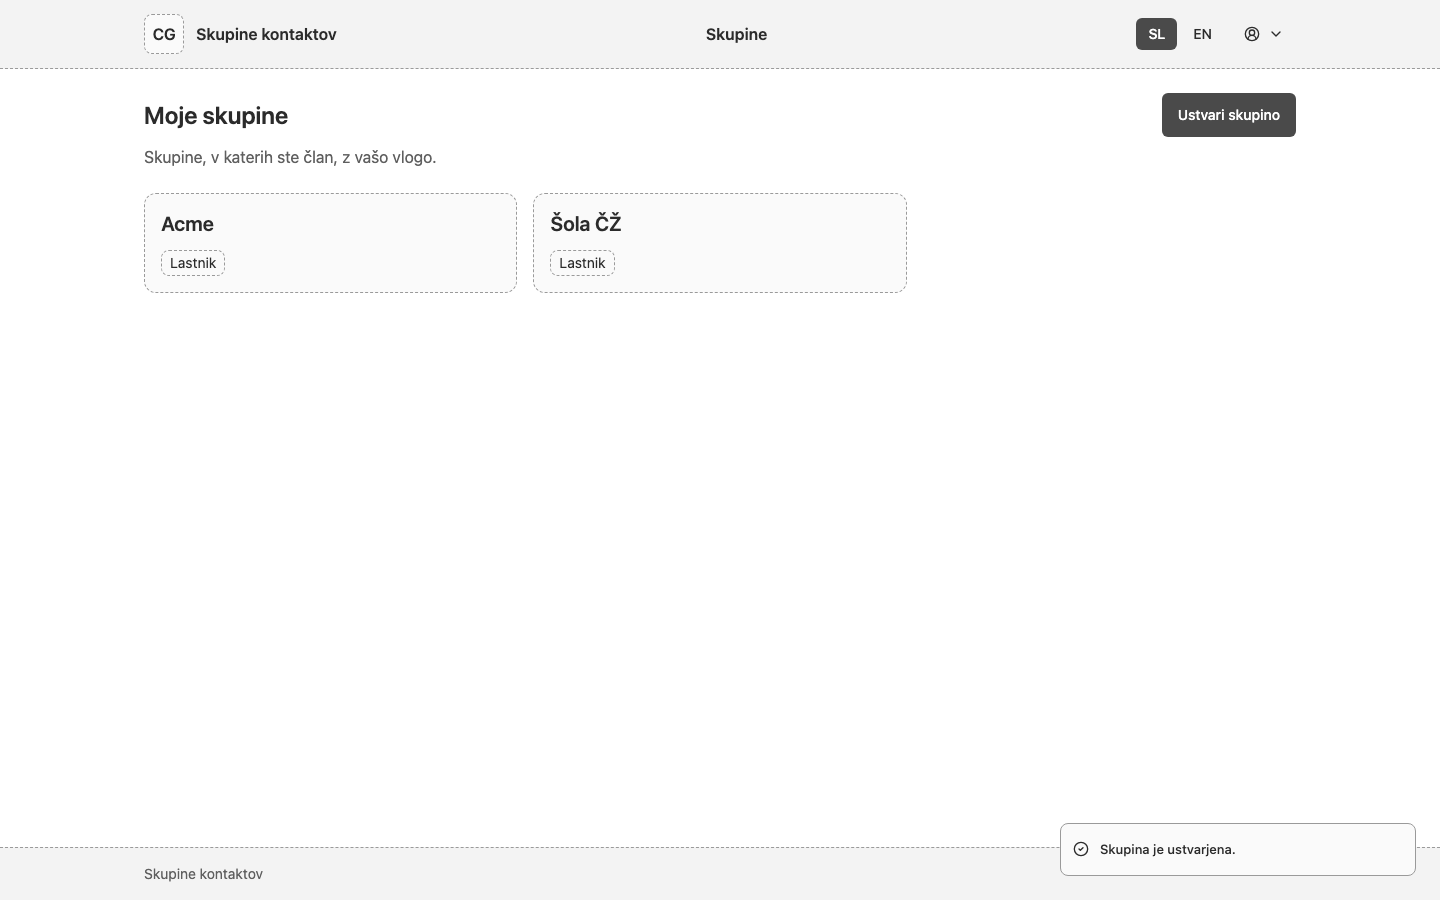
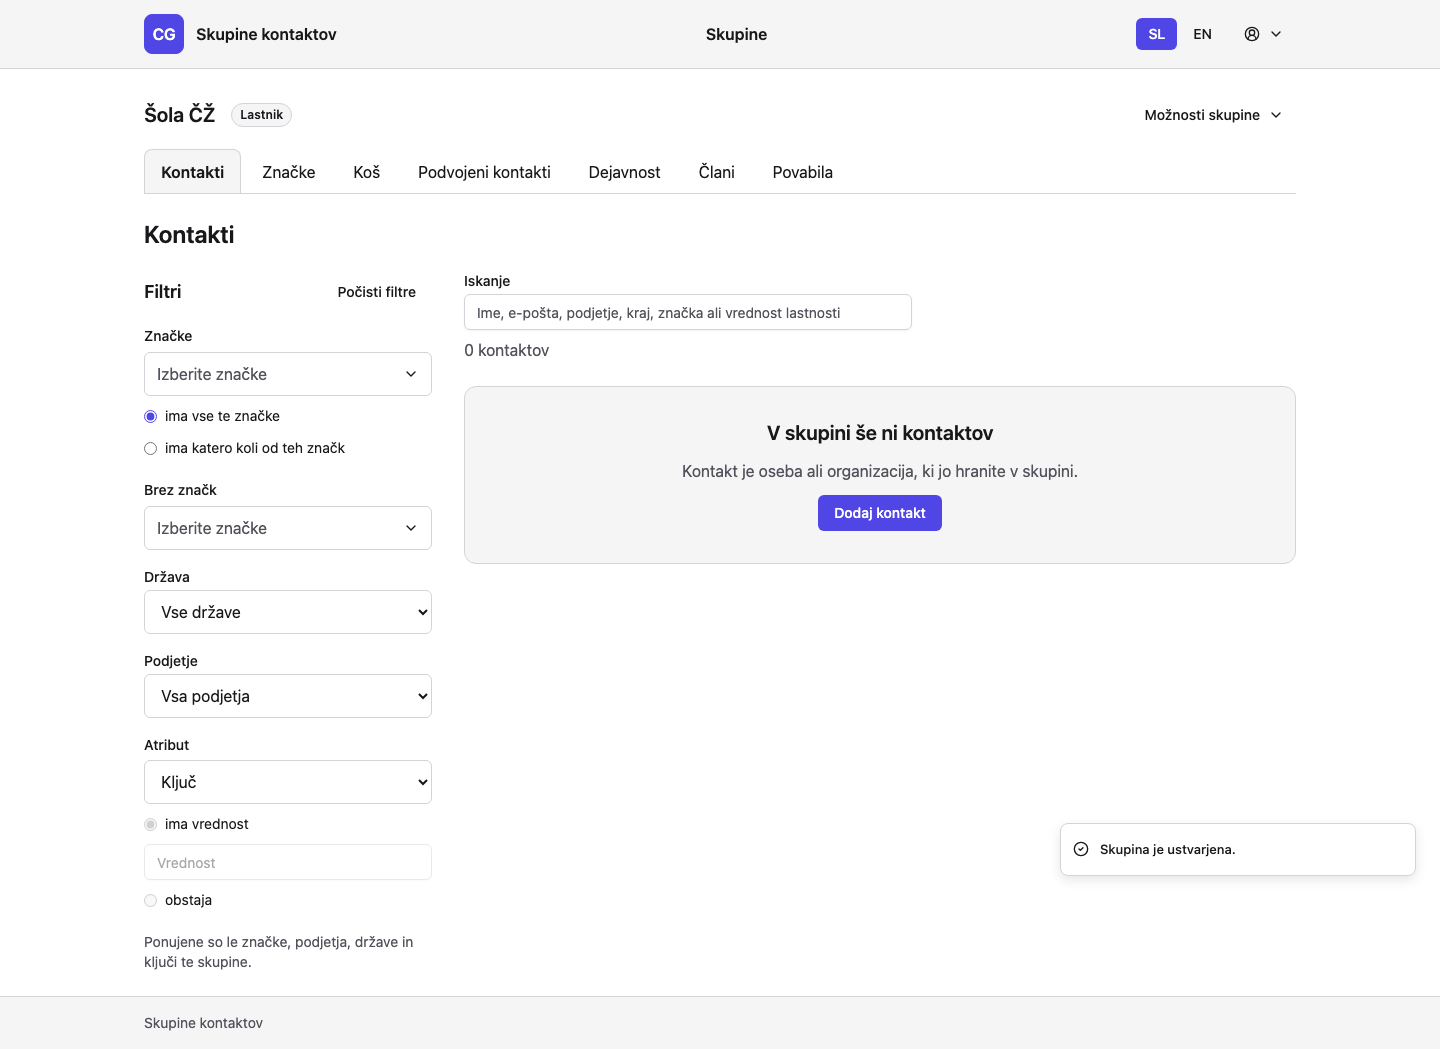
test: WF-05 check expects the opened new Group (F-57)
Defect in a non-frozen UI check: after "Ustvari" the app opens the new
Group as its Contact list (F-40), the check still waited for a level 2
heading in the Group list. It now expects the Contact list heading and
the Group name in the shell, and axe runs on that state.

Red: WF-05 create dialog: open, errors, created failed: heading level 2 "Šola ČŽ" not found (run 3, three widths)
Green: chromium 3 of 3 against the test stack, logs/fix3-f57-green.log

diff --git a/02_output/frontend/ui-checks/group-screens.stack.spec.ts b/02_output/frontend/ui-checks/group-screens.stack.spec.ts
@@ -5,7 +5,7 @@ import { VIEWPORTS } from './viewports';
 
 /**
  * build-ui checks of the US-002 states of WF-05 (UI-13, UI-15, UI-19, UI-22): the create dialog, its field errors
- * (R-002-02, R-002-03) and the confirmation after creating, at the three widths. Needs the test stack, like
+ * (R-002-02, R-002-03) and the confirmation and the opened new Group after creating, at the three widths. Needs the test stack, like
  * `account-screens.stack.spec.ts`.
  */
 for (const viewport of VIEWPORTS) {
@@ -35,7 +35,9 @@ for (const viewport of VIEWPORTS) {
       await dialog.getByLabel('Ime skupine').fill('Šola ČŽ');
       await dialog.getByRole('button', { name: 'Ustvari', exact: true }).click();
       await expect(page.getByText('Skupina je ustvarjena.')).toBeVisible();
-      await expect(page.getByRole('heading', { level: 2, name: 'Šola ČŽ' })).toBeVisible();
+      // E2E-01 step 4 (F-40): the new Group opens as its Contact list, the Group name is in the shell.
+      await expect(page.getByRole('heading', { level: 1, name: 'Kontakti' })).toBeVisible();
+      await expect(page.getByText('Šola ČŽ', { exact: true }).first()).toBeVisible();
       await check(page, 'WF-05_group-list', 'created', viewport.name);
     });
   });
